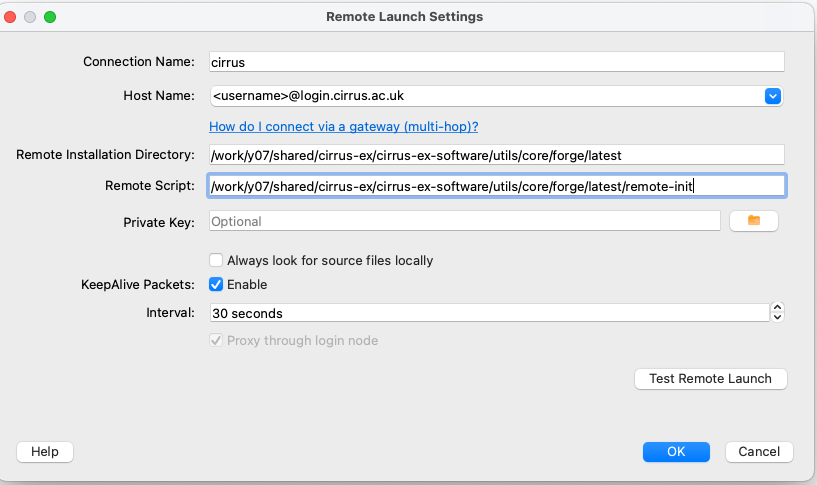
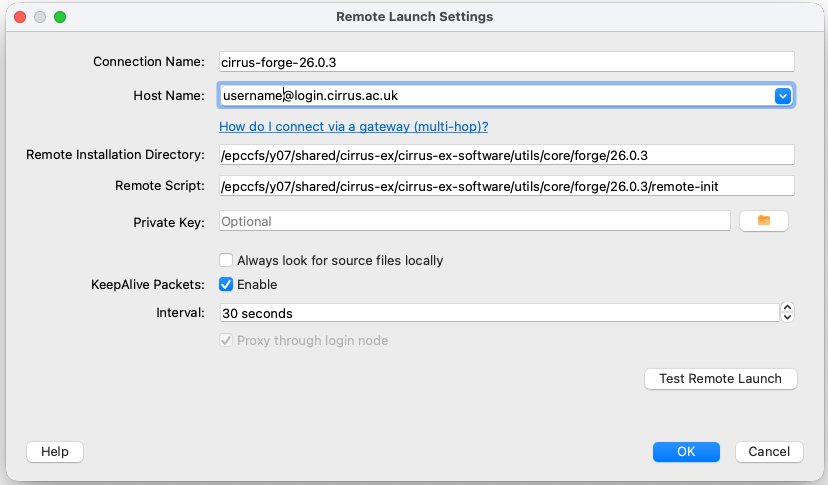
Update forge instructions

diff --git a/docs/software-tools/forge.md b/docs/software-tools/forge.md
@@ -1,11 +1,5 @@
 # Linaro Forge
 
-!!! important "Linaro Forge is not currently working on Cirrus"
-    As of 9 June 2026 Linaro Forge will not work on Cirrus due to a 
-    change on the system to protect against a known security issue.
-    If you wish to profile applications, you can use the CrayPAT tools
-    instead. We are working to resolve this issue.
-
 [Linaro Forge](https://www.linaroforge.com/) provides debugging and profiling
 tools for MPI parallel applications, and OpenMP or pthreads multi-threaded
 applications (and also hydrid MPI/OpenMP). Forge DDT is the debugger and MAP
@@ -32,26 +26,26 @@ is discussed further in
 A preliminary step is required to set up the necessary
 Forge configuration files that allow DDT and MAP to initialise its
 environment correctly so that it can, for example, interact with
-the Slurm queue system. These steps should be performed in the `/work`
+the Slurm queue system. These steps should be performed in the `/epccfs`
 file system on Cirrus.
 
-It is recommended that these commands are performed in the top-level work
-file system directory for the user account, i.e., `${HOME/home/work}`.
+It is recommended that these commands are performed in the top-level working
+file system directory for the user account, i.e., `${HOME/home/epccfs}`.
 
 ```bash
 module load forge
-cd ${HOME/home/work}
+cd ${HOME/home/epccfs}
 source ${FORGE_ROOT}/config-init
 ```
 
-Running the `source` command will create a directory `${HOME/home/work}/.forge` that contains the
+Running the `source` command will create a directory `${HOME/home/epccfs}/.forge` that contains the
 following files.
 
 ```output
 system.config  user.config
 ```
 
-Within the `system.config` file you should find that `shared directory` is set to the equivalent of `${HOME/home/work/.forge}`.
+Within the `system.config` file you should find that `shared directory` is set to the equivalent of `${HOME/home/epccfs/.forge}`.
 That directory will also store other relevant files when Forge is run.
 
 ## Using DDT
@@ -176,7 +170,7 @@ standard time limit of 20 minutes. An account code is also required.
 The default template is a non-exclusive submission.
 
 Alternatively, one can copy the `cirrus.qtf` template file
-to a suitable location in your work file space and make the relevant changes.
+to a suitable location in your `/epccfs` file space and make the relevant changes.
 For example, if the application does not use the default programming
 eniovironment, or requires additional modules to be loaded, module
 commands should be added in the new queue template file.
@@ -244,7 +238,7 @@ commands on connection. A default script is provided in the location
 shown.
 
 ```output
-/work/y07/shared/cirrus-ex/cirrus-ex-software/utils/core/forge/latest/remote-init
+/epccfs/y07/shared/cirrus-ex/cirrus-ex-software/utils/core/forge/latest/remote-init
 ```
 
 Other settings can be as shown. Remember to click ***OK*** when done.
@@ -258,10 +252,10 @@ password to connect. A remote connection will allow you to debug,
 or view a profile, as discussed above.
 
 If different commands are required on connection, a copy of the
-`remote-init` script can be placed in, e.g., `${HOME/home/work}/.forge`
+`remote-init` script can be placed in, e.g., `${HOME/home/epccfs}/.forge`
 and edited as necessary. The full path of the new script should then be
 specified in the remote launch settings dialog box.
-Note that the script changes the directory to the `/work/` file system so
+Note that the script changes the directory to the `/epccfs` file system so
 that batch submissions via `sbatch` will not be rejected.
 
 Finally, note that `ssh` may need to be configured so that it picks up
@@ -274,11 +268,9 @@ A common cause of problems in the use of the remote client is incorrect
 Forge configuration in the `.forge/system.config` file, particularly in the
 specification of the shared directory. The should be of the form
 ```
-shared directory = /mnt/lustre/e1000/home/project/project/user/.forge
+shared directory = /epccfs/project/project/username/.forge
 ```
-(and certainly not the home directory `~`). The full mount point your
-work directory can be obtained with e.g., `pwd -P` (somewhat
-confusingly, `/mnt/lustre/e1000/home` is `/work`).
+(and certainly not the home directory `~`).
 
 If you submit a job to the queue via the remote client, and the job starts
 (can check using `squeue` interactively), but the client does not connect,
